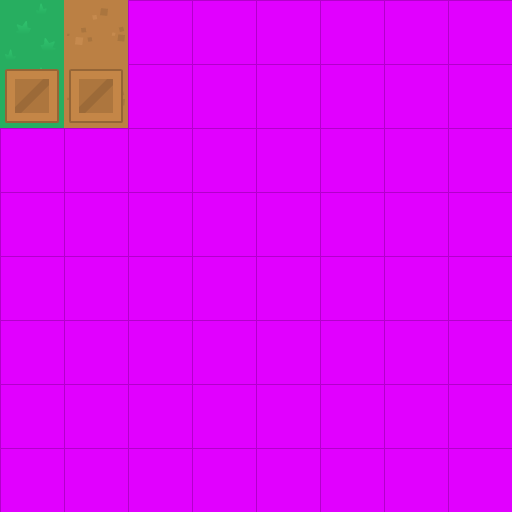
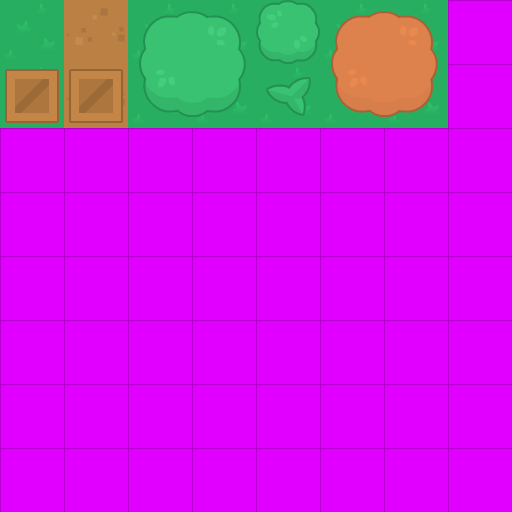
Final map for the prototype with trees around the border

Changed region(s): [[0.25, 0.0, 0.875, 0.25]]

diff --git a/src/game/map/MapParser.java b/src/game/map/MapParser.java
@@ -51,13 +51,14 @@ public class MapParser {
         int height = mapImage.getHeight();
         Tile[][] map = new Tile[width][height];
 
+        System.out.println(new Color(mapImage.getRGB(0,0)));
         for (int y = 0; y < height; y++) {
             for (int x = 0; x < width; x++) {
                 Color colour = new Color(mapImage.getRGB(x, y));
+
                 TileType type = tileTypes.get(colour);
                 map[x][y] = new Tile(x - width / 2.0f + 0.5f, height / 2.0f - 0.5f - y, type);
             }
-            System.out.println();
         }
 
         return map;

diff --git a/src/game/Game.java b/src/game/Game.java
@@ -364,7 +364,7 @@ public class Game extends Canvas {
 
     private void init() {
         // Create the map and parse it
-        mapData = new MapData("testmap.png", "tilesheet.png", "tiledata.csv");
+        mapData = new MapData("prototypemap.png", "tilesheet.png", "tiledata.csv");
 
         // Initialise the entities
         zombies = new ArrayList<>(zombieCount);
